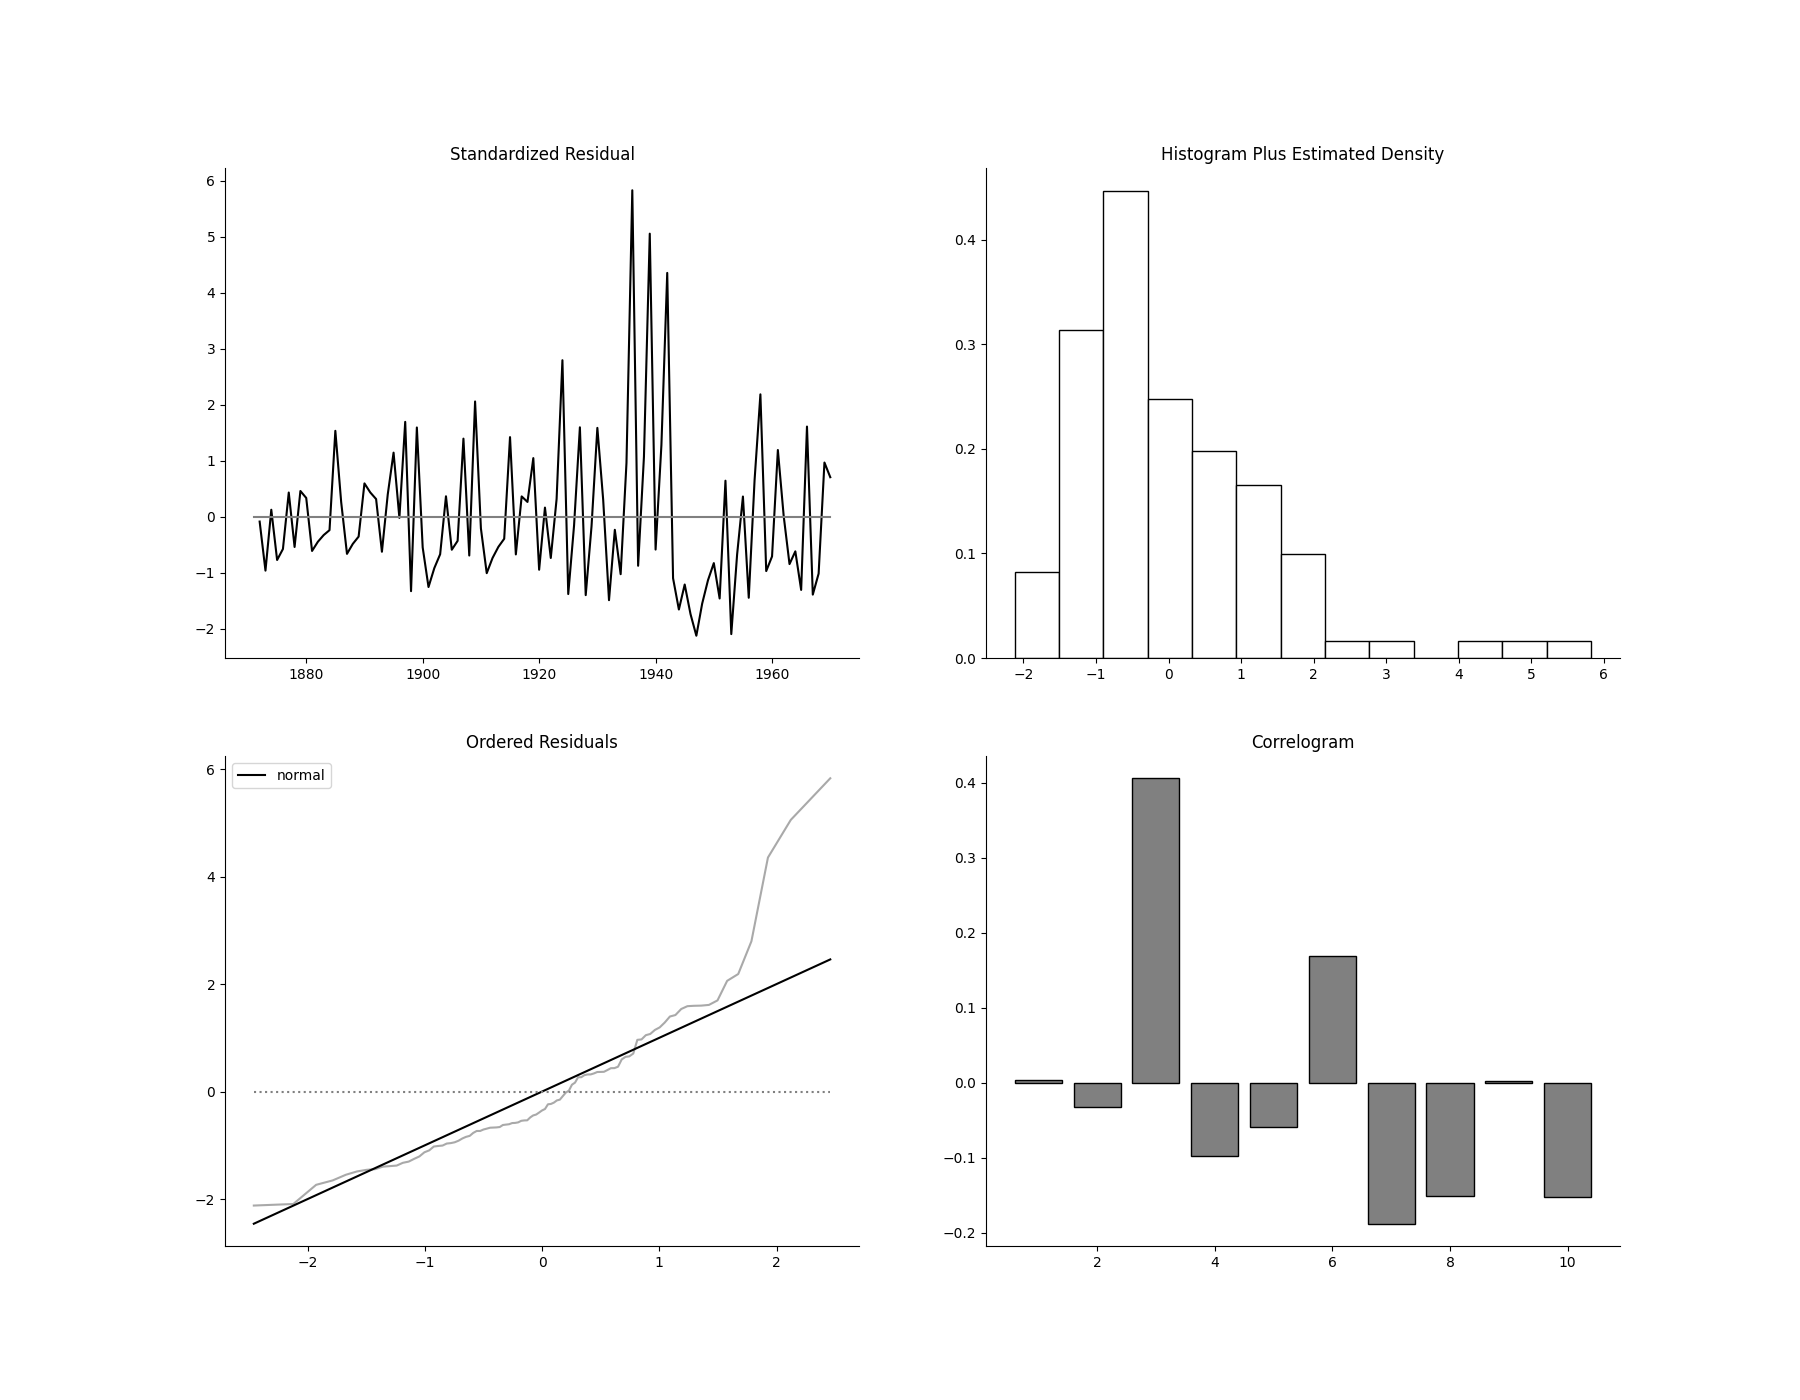
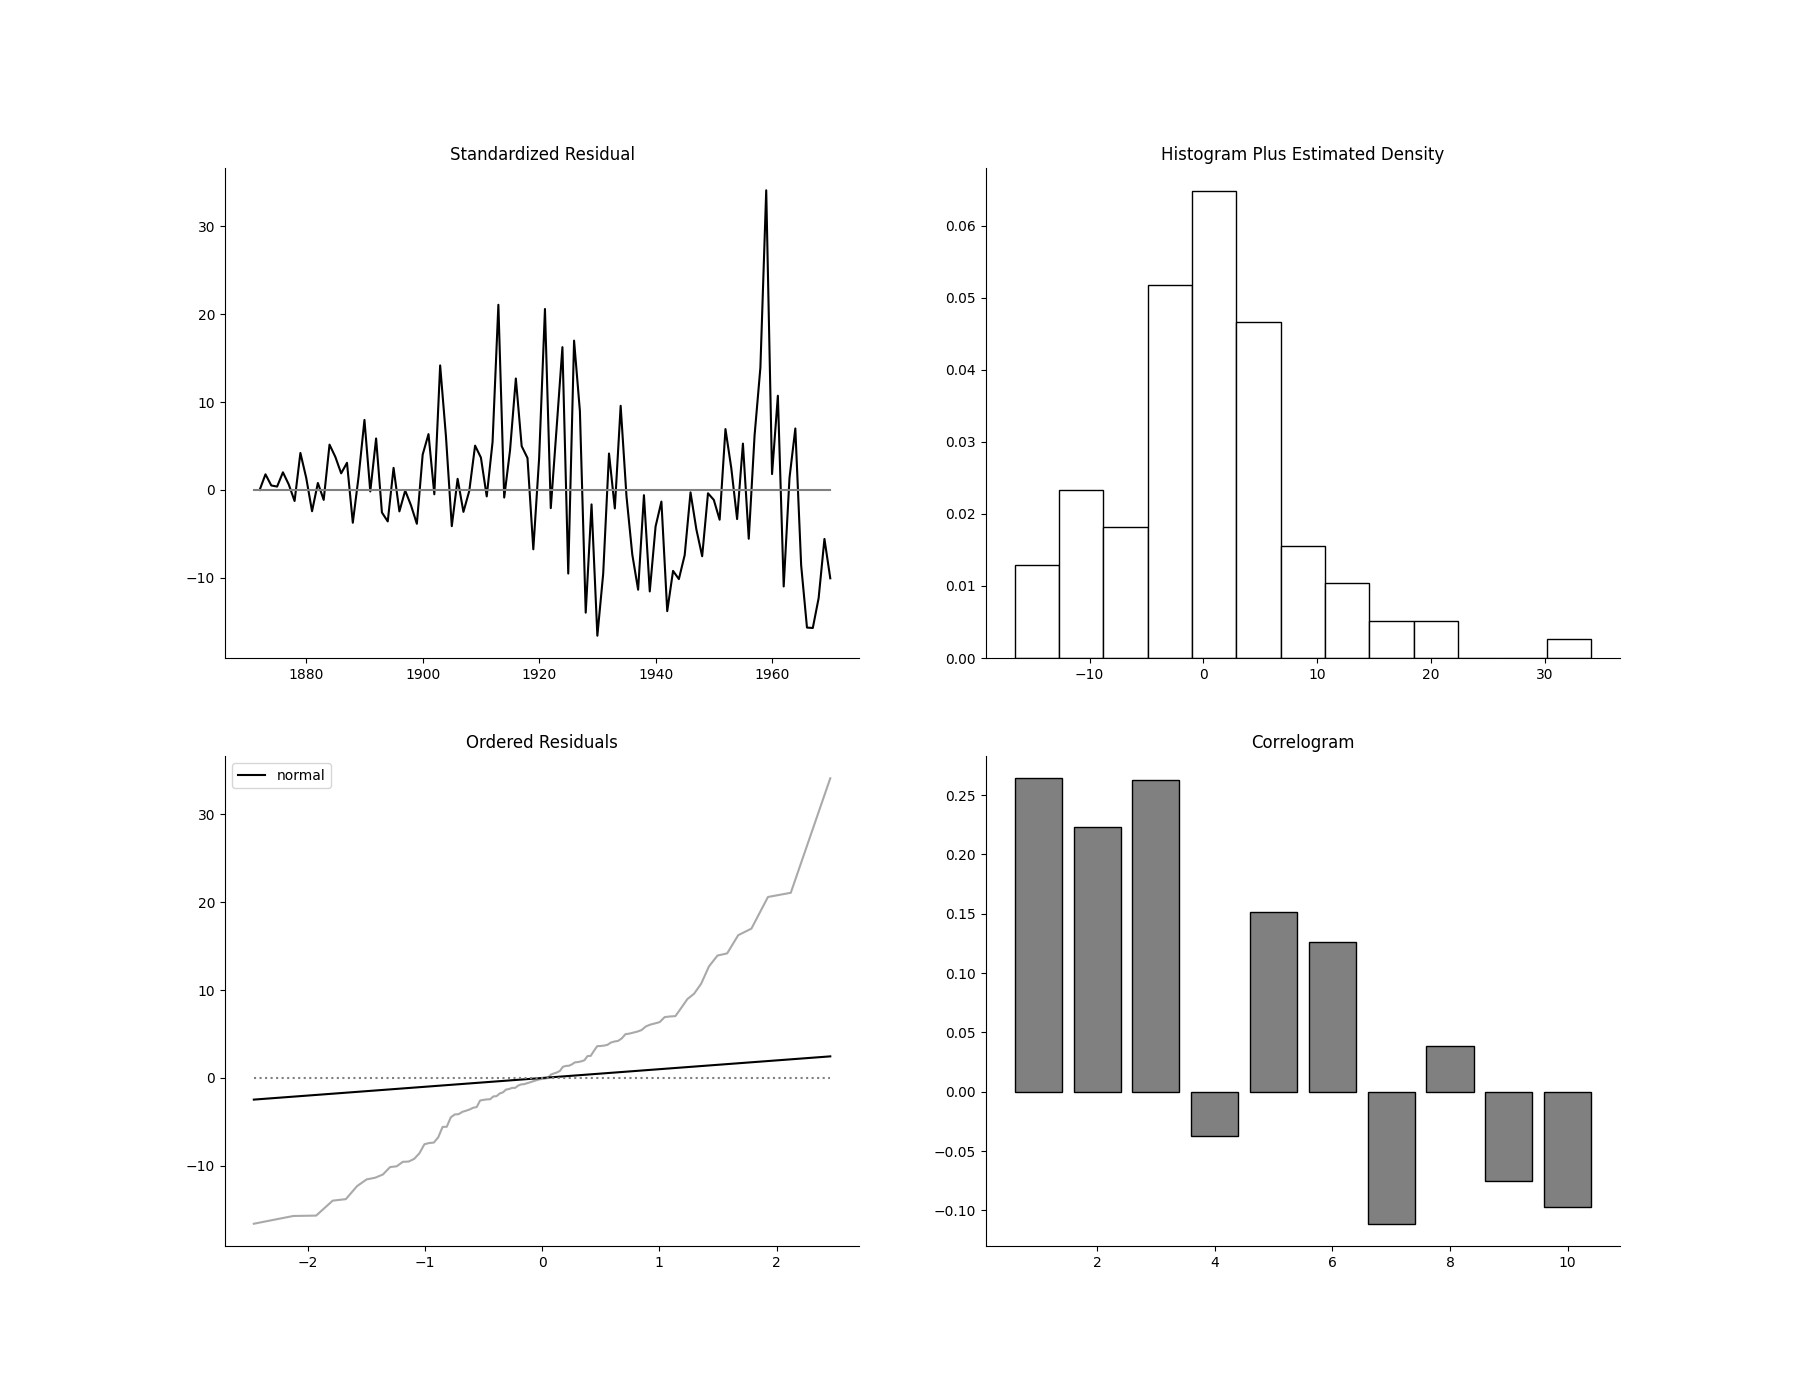
Update

diff --git a/lds.py b/lds.py
@@ -47,14 +47,19 @@ def ApplyFilter(a1, p1, e, n, y, steady_state = False):
     a, p, F = np.zeros(timepoints+1, dtype = np.double), np.zeros(timepoints+1, dtype = np.double), np.zeros(timepoints, dtype = np.double)
     A, P = np.zeros(timepoints, dtype = np.double), np.zeros(timepoints, dtype = np.double)
     p_ = SteadyStateVariance(e,n)
+    K_ = p_/(p_+ e)
     if p_ == 'no steady state': return 'No Steady State'
     
     a[0], p[0] = a1, p1
+    flag = False
     for i in range(0, timepoints):
         F[i] = p[i] + e
-        K = p[i]/F[i]
-        if steady_state:
-            if abs(p[i]-p_)<=0.001: K = p_/(p_+ e)
+        if flag == False:
+            K = p[i]/F[i]
+            if steady_state and abs(p[i]-p_)<=1e-3: flag = True
+        else:
+            K = K_
+
         if np.isnan(y[i]): 
             A[i] = a[i]
             P[i] = p[i]
@@ -168,8 +173,11 @@ def DiagnosticCheck(a1, p1, e, n, y, k=10):
         c[i] = np.sum([(E[j] - m[0])*(E[j-i]-m[0]) for j in range (i+1, N)])/(N*m[1])
         Q[i] = N*(N+2)*np.sum([c[j]**2/(N-j-1) for j in range(i)])
 
-    p_S, p_K = ss.norm.sf(S, loc=0, scale=6/(N+2)),ss.norm.sf(K, loc = 3, scale = 24/(N+2))
-    return E, (S,p_S), (K, p_K), NN, H, c[1:], Q[1:]
+    p_S, p_K = ss.norm.sf(S, loc=0, scale=(6/N)**0.5),ss.norm.sf(K, loc = 3, scale = (24/N)*0.05)
+    p_NN = ss.chi2.sf(NN, 2)
+    p_H = [ss.f.sf(H[i], i+1, i+1) for i in range(len(H))]
+    p_Q = [ss.chi2.sf(q, 2) for q in Q]
+    return E, (S,p_S), (K, p_K), (NN, p_NN), (H, p_H), c[1:], (Q[1:],p_Q[1:])
 
 def TheoreticalQuantile(x):
     (res_o_values, (slope, intercept, r)) = ss.probplot(x, dist="norm")

diff --git a/DKBook/Scripts/Figure_2_7_Noise.py b/DKBook/Scripts/Figure_2_7_Noise.py
@@ -28,7 +28,7 @@ def main():
     # Filter data
     a, p, F, A, P = lds.ApplyFilter(a1, p1, e, n, y)
     v = [y[i] - a[i] for i in range(len(y))]
-    E, (S,p_S), (K,p_K), NN, H, c, Q = lds.DiagnosticCheck(a1, p1, e, n, y)
+    E, (S,p_S), (K,p_K), (NN, p_NN), (H, p_H), c, (Q,p_Q) = lds.DiagnosticCheck(a1, p1, e, n, y)
 
 
     years_xlabel = [1880, 1900, 1920, 1940, 1960]
@@ -67,9 +67,12 @@ def main():
     
     fig.suptitle("Nile data and output of Kalman filter", y = 0.0, fontsize = 25)
     plt.savefig(figures_dir / 'Fig_2_7_CorrelateNoise.png')
-    
-    print('S = ', S, ', K = ', K, ', N = ', NN, ', H(33) = ', H[32], ', Q(9) = ', Q[8])
-    print('p value_S: ', p_S, ', p value_K: ',p_K)
+
+    print('S = ', S, ' p value_S = ', round(p_S,4))
+    print('K = ', K, ' p value_K = ', round(p_K,4))
+    print('N = ', NN, ' p value_N = ', round(p_NN,4))
+    print('H(33) = ', H[32], ' p value_H(33) = ', round(p_H[32],4))
+    print('Q(9) = ', Q[8], ' p value_Q(9) = ', round(p_Q[8],4))
 
     
 if __name__ == "__main__":

diff --git a/DKBook/Scripts/Figure_2_7_Poisson.py b/DKBook/Scripts/Figure_2_7_Poisson.py
@@ -28,7 +28,7 @@ def main():
     # Filter data
     a, p, F, A, P = lds.ApplyFilter(a1, p1, e, n, y)
     v = [y[i] - a[i] for i in range(len(y))]
-    E, (S,p_S), (K,p_K), NN, H, c, Q = lds.DiagnosticCheck(a1, p1, e, n, y)
+    E, (S,p_S), (K,p_K), (NN, p_NN), (H, p_H), c, (Q,p_Q) = lds.DiagnosticCheck(a1, p1, e, n, y)
 
 
     years_xlabel = [1880, 1900, 1920, 1940, 1960]
@@ -68,8 +68,11 @@ def main():
     fig.suptitle("Nile data and output of Kalman filter", y = 0.0, fontsize = 25)
     plt.savefig(figures_dir / 'Fig_2_7_PoissonData.png')
     
-    print('S = ', S, ', K = ', K, ', N = ', NN, ', H(33) = ', H[32], ', Q(9) = ', Q[8])
-    print('p value_S: ', p_S, ', p value_K: ',p_K)
+    print('S = ', S, ' p value_S = ', round(p_S,4))
+    print('K = ', K, ' p value_K = ', round(p_K,4))
+    print('N = ', NN, ' p value_N = ', round(p_NN,4))
+    print('H(33) = ', H[32], ' p value_H(33) = ', round(p_H[32],4))
+    print('Q(9) = ', Q[8], ' p value_Q(9) = ', round(p_Q[8],4))
 
     
 if __name__ == "__main__":

diff --git a/DKBook/Scripts/Figure_2_7.py b/DKBook/Scripts/Figure_2_7.py
@@ -27,7 +27,7 @@ def main():
     # Filter data
     a, p, F, A, P = lds.ApplyFilter(a1, p1, e, n, y)
     v = [y[i] - a[i] for i in range(len(y))]
-    E, (S,p_S), (K,p_K), NN, H, c, Q = lds.DiagnosticCheck(a1, p1, e, n, y)
+    E, (S,p_S), (K,p_K), (NN, p_NN), (H, p_H), c, (Q,p_Q) = lds.DiagnosticCheck(a1, p1, e, n, y)
 
 
     years_xlabel = [1880, 1900, 1920, 1940, 1960]
@@ -67,8 +67,12 @@ def main():
     fig.suptitle("Nile data and output of Kalman filter", y = 0.0, fontsize = 25)
     plt.savefig(figures_dir/'Fig_2_7.png')
     
-    print('S = ', S, ', K = ', K, ', N = ', NN, ', H(33) = ', H[32], ', Q(9) = ', Q[8])
-    print('p value_S: ', p_S, ', p value_K: ',p_K)
+
+    print('S = ', S, ' p value_S = ', round(p_S,4))
+    print('K = ', K, ' p value_K = ', round(p_K,4))
+    print('N = ', NN, ' p value_N = ', round(p_NN,4))
+    print('H(33) = ', H[32], ' p value_H(33) = ', round(p_H[32],4))
+    print('Q(9) = ', Q[8], ' p value_Q(9) = ', round(p_Q[8],4))
 
     
 if __name__ == "__main__":

diff --git a/DKBook/README.md b/DKBook/README.md
@@ -31,13 +31,23 @@ Code for the figure can be found [here](/DKBook/Scripts/Figure_2_6.py)
 *Figure 2.7: Diagnostic plots for standardised prediction errors: (i) standardised residual; (ii) histogram plus estimated density; (iii) ordered residuals; (iv) correlogram.*  
 Code for the figure can be found [here](/DKBook/Scripts/Figure_2_7.py)
 
+where:  
+$S =  -0.0312, \quad p_S=0.5504$  
+$K =  3.0866,\quad p_K=0.0$  
+$N =  0.0470, \quad p_N=0.9768$  
+$H(33) =  0.5945, \quad p_H=0.9298$  
+$Q(9) =  109.3016, \quad p_Q=0.0$  
+
 If the observation is not linearly related to the state but belongs to a Poisson distribution $Poisson(\lambda = exp(x_n))$, its fitness with the Kalman filter can be assessed by:  
 ![Figure2.7_Poisson](/DKBook/Figures/Fig_2_7_PoissonData.png)  
 Code for the figure can be found [here](/DKBook/Scripts/Figure_2_7_Poisson.py)
 
 where:   
-$S =  2.55, K =  15.39, N =  739.53, H(33) =  0.08, Q(9) =  45.91$  
-$p_S=  0.0 ,  p_K=0.0 $
+$S =  0.7554, \quad p_S=0.0011$  
+$K =  5.1667,\quad p_K=0.0$  
+$N =  28.7799, \quad p_N=0.0$  
+$H(33) =  6.4992, \quad p_H=0.0$  
+$Q(9) =  127.5094, \quad p_Q=0.0$  
 
 
 If the observation noise is acculumated with time, i.e.:  
@@ -49,7 +59,14 @@ Its fitness with the Kalman filter can be assessed by:
 ![Figure2.7_Noise](/DKBook/Figures/Fig_2_7_CorrelateNoise.png)   
 Code for the figure can be found [here](/DKBook/Scripts/Figure_2_7_Noise.py)
 
-Then, the simulated data and observation noise for 100 realizations would be:  
+where:   
+$S =  0.4228, \quad p_S=0.043$  
+$K =  2.9253,\quad p_K=1.0$  
+$N =  2.9720, \quad p_N=0.2263$  
+$H(33) =  0.9917, \quad p_H=0.5095$  
+$Q(9) =  193.6893, \quad p_Q=0.0$  
+
+The simulated data and observation noise for 100 realizations are:  
 ![CorrelateNoiseSimulation](/DKBook/Figures/CorrelatedNoise.png)  
 Code for the figure can be found [here](/DKBook/Scripts/CorrelatedNoise.py)
 

diff --git a/BishopBook/README.md b/BishopBook/README.md
@@ -3,7 +3,7 @@
 ### K-means Cluster
 
 ![KMeansCluster](/BishopBook/Figures/KMeans.png)  
-*Clustering randomly generated data into 5 groups and the cost function of clustering.*
+*Clustering Old Faithuful eruption data into 2 groups and the cost function of clustering (iteration = 10).*
 
 
 Code for above two figures can be find [here](/BishopBook/Scripts/KMeansCluster.py).
